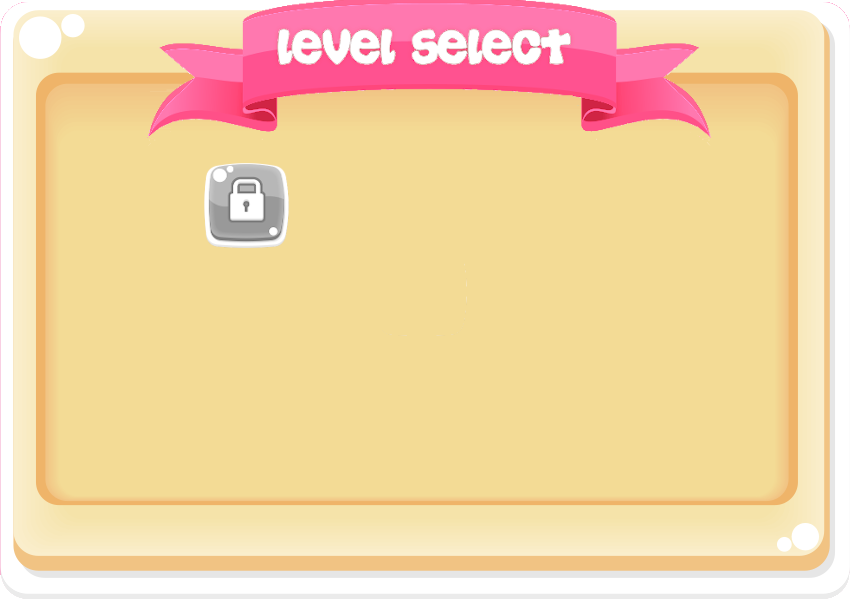
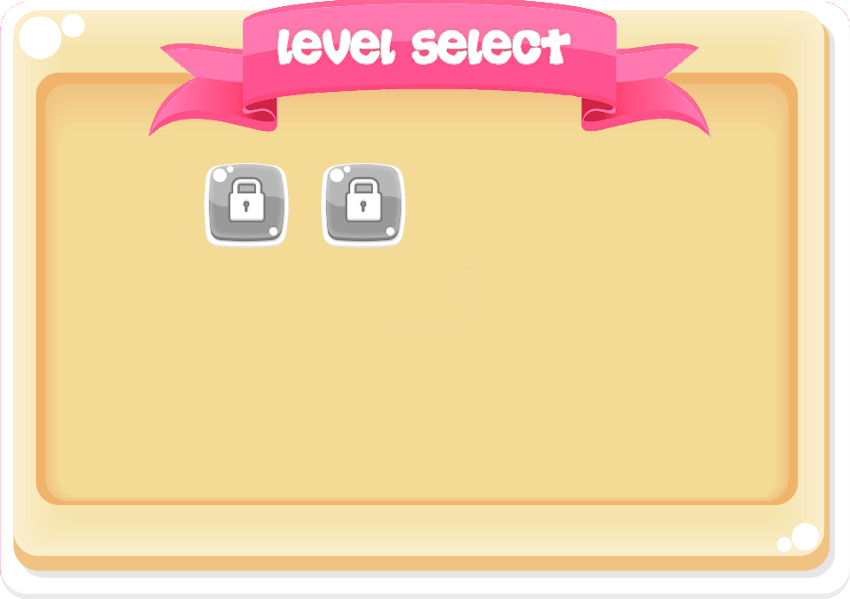
unblocking the next boards

Changed region(s): [[0.3671, 0.2705, 0.4894, 0.4207]]

diff --git a/scripts/Game.esm.js b/scripts/Game.esm.js
@@ -7,6 +7,7 @@ import { GameState } from './GameState.esm.js';
 import { mouseController } from './MouseController.esm.js';
 import { DIAMOND_SIZE, NUMBER_OF_DIAMONDS_TYPES } from './Diamond.esm.js';
 import { resultScreen } from './ResultScreen.esm.js';
+import { userData } from './UserData.esm.js';
 
 const DIAMOND_ARRAY_WIDTH = 7;
 const DIAMOND_ARRAY_HEIGHT = DIAMOND_ARRAY_WIDTH + 1;
@@ -222,12 +223,19 @@ class Game extends Common {
     checkEndOfGame() {
         if (!this.gameState.getLeftMovement() && !this.gameState.getIsMoving() && !this.gameState.getIsSwaping()) {
             const isPlayerWinner = this.gameState.isPlayerWinner();
-            if (isPlayerWinner && gameLevels[this.gameState.level]) {
-                console.log('Kolejny level odblokowany :)');
+            const currentLevel = Number(this.gameState.level);
+
+            if (isPlayerWinner && gameLevels[currentLevel]) {
+                if (!userData.checkAvailabilityLevel(currentLevel + 1)) {
+                    userData.addNewLevel(currentLevel + 1)
+                }
             }
 
-            console.log('Jezeli gracz ma wiecej punktow to aktualizacja high scores');
-            resultScreen.viewResultScreen(isPlayerWinner, this.gameState.getPlayerPoints(), this.gameState.level)
+            if (userData.getHighScores(currentLevel) < this.gameState.getPlayerPoints()) {
+                userData.setHighScore(currentLevel, this.gameState.getPlayerPoints());
+            }
+
+            resultScreen.viewResultScreen(isPlayerWinner, this.gameState.getPlayerPoints(), currentLevel)
 
         } else {
             this.animationFrame = window.requestAnimationFrame(() => this.animate());

diff --git a/scripts/ResultScreen.esm.js b/scripts/ResultScreen.esm.js
@@ -1,5 +1,6 @@
 import { canvas } from './Canvas.esm.js';
 import { Common, HIDDEN_SCREEN, VISIBLE_SCREEN } from './Common.esm.js';
+import { levelSelect } from './LevelSelect.esm.js';
 import { mainMenu } from './MainMenu.esm.js';
 
 const RESULT_SCREEN_END_SCREEN_ID = 'js-end-screen';
@@ -23,7 +24,7 @@ class ResultScreen extends Common {
         const restartButtonElement = this.bindToElement(RESULT_SCREEN_RESTART_LEVEL_BUTTON_ID);
 
         backButtonElement.addEventListener('click', () => this.backButtonClick());
-        restartButtonElement.addEventListener('click', () => console.log('click2'));
+        restartButtonElement.addEventListener('click', () => this.restartLevelClick());
     }
 
     viewResultScreen(isGameWin, playerPoints, level) {
@@ -34,13 +35,18 @@ class ResultScreen extends Common {
         }
         this.changeVisibilityScreen(this.element, VISIBLE_SCREEN);
         this.userPointsElement.textContent = String(playerPoints);
-        this.highScoresElement.textContent = 7000;
+        this.highScoresElement.textContent = String(userData.getHighScores(level));
     }
 
     backButtonClick() {
         this.changeVisibilityScreen(canvas.element, HIDDEN_SCREEN);
         this.changeVisibilityScreen(this.element, HIDDEN_SCREEN);
         mainMenu.showLevelScreen();
+    }
+
+    restartLevelClick() {
+        this.changeVisibilityScreen(this.element, HIDDEN_SCREEN);
+        levelSelect.loadLevel(game.gameState.level);
     }
 }
 

diff --git a/scripts/LevelSelect.esm.js b/scripts/LevelSelect.esm.js
@@ -3,19 +3,8 @@ import { canvas } from './Canvas.esm.js';
 import { DATALOADED_EVENT_NAME, loader } from './Loader.esm.js';
 import { game } from './Game.esm.js';
 import { media } from './Media.esm.js';
-
-const gameLevels = [
-    {
-        level: 1,
-    },
-    {
-        level: 2,
-    },
-    {
-        level: 3,
-    },
-
-];
+import { gameLevels } from './gameLevels.esm.js';
+import { userData } from './UserData.esm.js';
 
 const LEVEL_SELECT_BUTTON_ID = 'level-select__button';
 const LEVEL_SELECT_ID = 'js-level-select-screen';
@@ -23,10 +12,20 @@ const LEVEL_SELECT_ID = 'js-level-select-screen';
 class LevelSelect extends Common {
     constructor() {
         super(LEVEL_SELECT_ID);
-        gameLevels.forEach(gameLevel => this.createButton(gameLevel.level));
+    }
+
+    createButtons() {
+        while (this.element.firstChild) {
+            this.element.removeChild(this.element.firstChild);
+        }
+        gameLevels.some(gameLevel => this.createButton(gameLevel.level));
     }
 
     createButton(value) {
+        if (!userData.checkAvailabilityLevel(value)) {
+            return true;
+        }
+
         const button = document.createElement('button');
 
         button.type = 'button';

diff --git a/scripts/UserData.esm.js b/scripts/UserData.esm.js
@@ -1,0 +1,35 @@
+class UserData {
+    constructor() {
+        if (!localStorage.length) {
+            localStorage.setItem('1', JSON.stringify({ active: true, bestScore: 0 }));
+        }
+    }
+
+    checkAvailabilityLevel(levelNumber) {
+        const item = localStorage.getItem(String(levelNumber))
+
+        if (!item) {
+            return false;
+        }
+
+        const { active } = JSON.parse(item);
+
+        return active;
+    }
+    addNewLevel(levelNumber) {
+        localStorage.setItem(String(levelNumber), JSON.stringify({ active: true, bestScore: 0 }));
+    }
+
+    getHighScores(levelNumber) {
+        const item = localStorage.getItem(String(levelNumber));
+        const { bestScore } = JSON.parse(item);
+
+        return bestScore;
+    }
+
+    setHighScore(levelNumber, newHighScore) {
+        localStorage.setItem(String(levelNumber), JSON.stringify({ active: true, bestScore: newHighScore }));
+    }
+}
+
+export const userData = new UserData();

diff --git a/scripts/gameLevels.esm.js b/scripts/gameLevels.esm.js
@@ -8,7 +8,7 @@ export const gameLevels = [
     {
         level: 1,
         numberOfMovements: 2,
-        pointsToWin: 5000,
+        pointsToWin: 50,
         board: [
             { x: 0 * DIAMOND_SIZE, y: -1 * DIAMOND_SIZE + GAME_BOARD_Y_OFFSET, row: 0, column: 0, kind: EMPTY_BLOCK },
             { x: 0 * DIAMOND_SIZE, y: -1 * DIAMOND_SIZE + GAME_BOARD_Y_OFFSET, row: 1, column: 0, kind: EMPTY_BLOCK },

diff --git a/scripts/MainMenu.esm.js b/scripts/MainMenu.esm.js
@@ -25,6 +25,7 @@ class MainMenu extends Common {
     }
 
     showLevelScreen() {
+        levelSelect.createButtons();
         this.changeVisibilityScreen(this.element, HIDDEN_SCREEN);
         this.changeVisibilityScreen(levelSelect.element, VISIBLE_SCREEN);
     }
